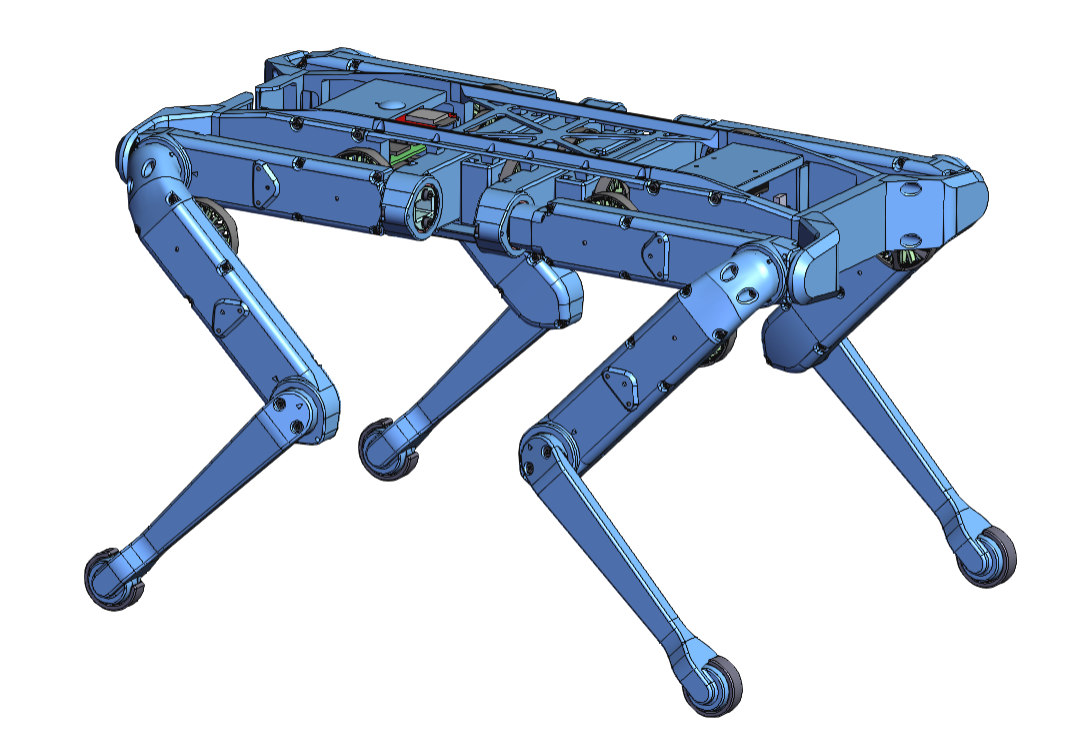
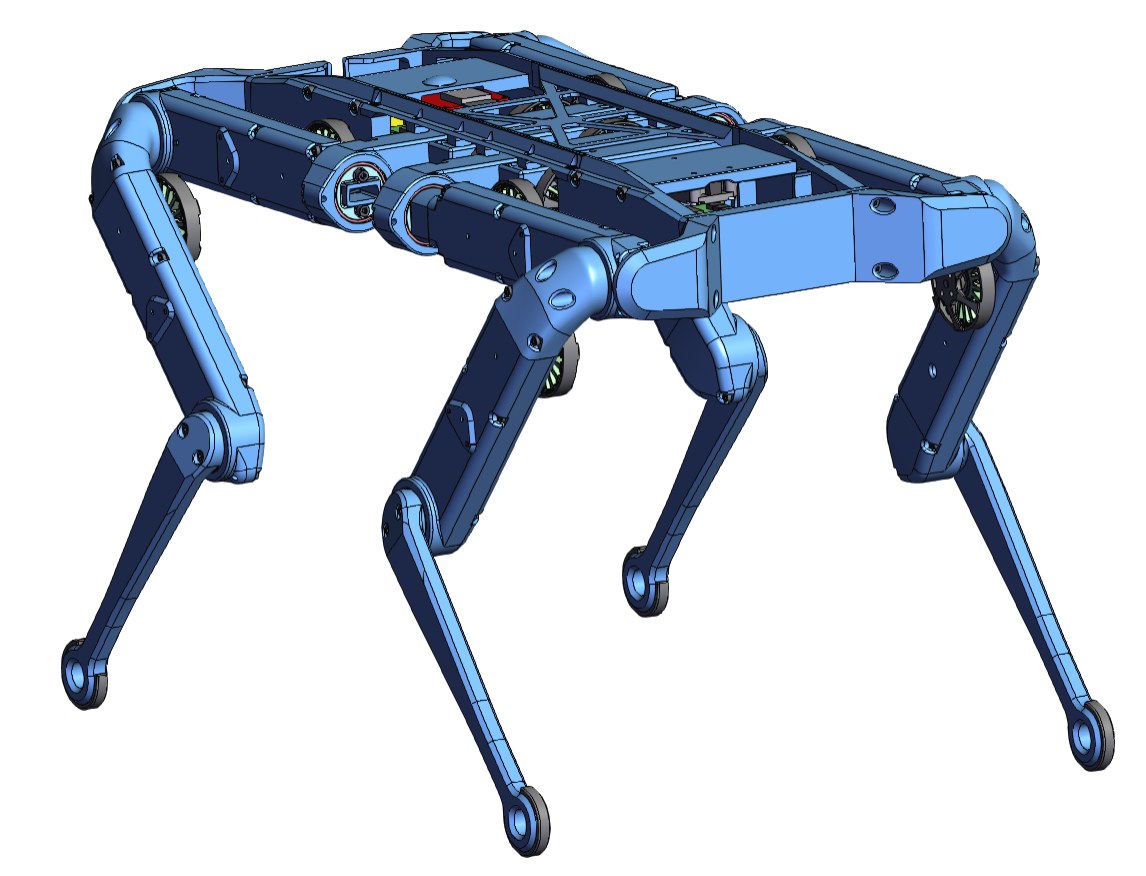
Updating html cad links

diff --git a/mechanics/leg_test_stand_v1/README.md b/mechanics/leg_test_stand_v1/README.md
@@ -135,6 +135,12 @@ All the STL files for 3d printing the Leg Test Stand can be found here: [STL Fil
 |Stopper Attachment|2|[STL file](stl_files/stopper_attachment.STL)|3d printed part|
 |Stopper Wing|1|[STL file](stl_files/stopper_wing.STL)|3d printed part|
 
+## View the Leg Test Stand cad model in your web browser
+<br>
+
+<a href="https://open-dynamic-robot-initiative.github.io/cad_files/leg_test_stand_v1"><img src="images/leg_test_stand_cad_1.png" width="400"></a><br> *Leg Test Stand v1 - Click on the picture to view the cad model in your browser*
+
+---
 ## How to work with this
 * To get an better overview of the assembly you can view this [pdf file](details/leg_test_stand_v1.PDF)
 * I recommend downloading the free eDrawings viewer for Windows, Mac, iOS and Android [here](https://www.edrawingsviewer.com/download-edrawings).
@@ -150,7 +156,7 @@ Felix Grimminger
 BSD 3-Clause License
 
 ## Copyright
-Copyright (c) 2019-2020, Max Planck Gesellschaft and New York University
+Copyright (c) 2019-2021, Max Planck Gesellschaft and New York University
 
 ## More Information
 [Open Dynamic Robot Initiative - Webpage](https://open-dynamic-robot-initiative.github.io)  

diff --git a/mechanics/quadruped_robot_8dof_v1/README.md b/mechanics/quadruped_robot_8dof_v1/README.md
@@ -103,7 +103,9 @@ The inertial values are being used in this repository: [Robot Properties Solo](h
 ---
 ## View the quadruped cad model in your web browser <br>
 
-<a href="https://open-dynamic-robot-initiative.github.io/cad_files/quadruped_8dof_v1"><img src="images/quadruped_cad_1.png" width="300"></a><br> *Quadruped Robot 8dof v1 <br> Click on the picture to view the biped cad model in your browser*
+<a href="https://open-dynamic-robot-initiative.github.io/cad_files/quadruped_8dof_v1"><img src="images/quadruped_cad_2.png" width="300"></a><br> *Quadruped Robot 8dof v1 - Click on the picture to view the biped cad model in your browser*
+
+<a href="https://open-dynamic-robot-initiative.github.io/cad_files/quadruped_8dof_v1_folded"><img src="images/quadruped_cad_3.png" width="350"></a><br>*Quadruped robot 8dof v1 folded - Click on picture to view the cad model in your browser*
 
 ---
 ## More Information
@@ -122,4 +124,4 @@ Felix Grimminger
 BSD 3-Clause License
 
 ## Copyright
-Copyright (c) 2019-2020, Max Planck Gesellschaft and New York University
+Copyright (c) 2019-2021, Max Planck Gesellschaft and New York University

diff --git a/mechanics/biped_6dof_v1/README.md b/mechanics/biped_6dof_v1/README.md
@@ -228,7 +228,7 @@ The simplified STL files for visualization and simulation can be found here: [ST
 ## View the biped cad model in your web browser
 <br>
 
-<a href="https://open-dynamic-robot-initiative.github.io/cad_files/biped"><img src="images/biped_cad_3.png" width="250"></a><br> *Biped Robot 6dof - Click on the picture to view the biped cad model in your browser*
+<a href="https://open-dynamic-robot-initiative.github.io/cad_files/biped"><img src="images/biped_cad_4.png" width="250"></a><br> *Biped Robot 6dof - Click on the picture to view the biped cad model in your browser*
 
 ---
 ## Authors
@@ -238,7 +238,7 @@ Felix Grimminger
 BSD 3-Clause License
 
 ## Copyright
-Copyright (c) 2019-2020, Max Planck Gesellschaft and New York University
+Copyright (c) 2019-2021, Max Planck Gesellschaft and New York University
 
 ## More Information
 [Open Dynamic Robot Initiative - Webpage](https://open-dynamic-robot-initiative.github.io)  

diff --git a/mechanics/quadruped_robot_8dof_v2/README.md b/mechanics/quadruped_robot_8dof_v2/README.md
@@ -197,7 +197,9 @@ More wiring information: [Details Wiring](../../electronics/details/details_wiri
 ---
 ## View the quadruped cad model in your web browser <br>
 
-<a href="https://open-dynamic-robot-initiative.github.io/cad_files/quadruped_8dof_v2"><img src="images/solo8_v2_cad_2.png" width="300"></a><br> *Quadruped Robot 8dof v2 <br> Click on the picture to view the biped cad model in your browser*
+<a href="https://open-dynamic-robot-initiative.github.io/cad_files/quadruped_8dof_v2"><img src="images/solo8_v2_cad_3.png" width="350"></a><br> *Quadruped Robot 8dof v2 <br> Click on the picture to view the cad model in your browser*
+
+<a href="https://open-dynamic-robot-initiative.github.io/cad_files/quadruped_8dof_v2_folded"><img src="images/solo8_v2_cad_4.png" width="400"></a><br> *Quadruped Robot 8dof v2 folded <br> Click on the picture to view the cad model in your browser*
 
 ---
 ## More Information

diff --git a/mechanics/dual_motor_testbed_v1/README.md b/mechanics/dual_motor_testbed_v1/README.md
@@ -154,6 +154,11 @@
 | CAN PCI Express Card | 1 | PEAK IPEH-003027 | Dual channel |
 | CAN Connector | 1 | 9 pole D-Sub connector<br>RS 765-9555 |  |
 
+---
+## View the dual motor testbed cad model in your web browser
+<br>
+
+<a href="https://open-dynamic-robot-initiative.github.io/cad_files/dual_motor_testbed"><img src="images/dual_motor_testbed_cad_1.png" width="500"></a><br> *Dual Motor Testbed - Click on the picture to view the cad model in your browser*
 
 ---
 ## How to work with this
@@ -172,7 +177,7 @@ Felix Grimminger
 BSD 3-Clause License
 
 ## Copyright
-Copyright (c) 2019-2020, Max Planck Gesellschaft and New York University
+Copyright (c) 2019-2021, Max Planck Gesellschaft and New York University
 
 ## More Information
 [Open Dynamic Robot Initiative - Webpage](https://open-dynamic-robot-initiative.github.io)  

diff --git a/mechanics/foot_contact_switch_v1/README.md b/mechanics/foot_contact_switch_v1/README.md
@@ -109,6 +109,12 @@ To view the Eagle files you need to download the free [Eagle PCB Design Software
 
 * alternative lower leg versions without contact sensor are documented here: [Lower Leg Documentation](../general/lower_legs.md#lower-legs)
 
+---
+## View the foot contact switch cad model in your web browser
+<br>
+
+<a href="https://open-dynamic-robot-initiative.github.io/cad_files/foot_contact_switch_v1"><img src="images/foot_contact_switch_cad_1.png" width="400"></a><br> *Foot Contact Switch - Click on the picture to view the cad model in your browser*
+
 ## How to work with this
 * To get an better overview of the assembly you can view this [pdf file](lower_leg.PDF)
 * I recommend downloading the free eDrawings viewer for Windows, Mac, iOS and Android [here](https://www.edrawingsviewer.com/download-edrawings).

diff --git a/mechanics/tri_finger_edu_v1/README.md b/mechanics/tri_finger_edu_v1/README.md
@@ -74,6 +74,11 @@ The simplified STL files for visualization and simulation can be found here: [ST
 
 <a href="details/manipulator_dimensions_visualization.pdf"><img src="images/manipulator_dimensions_visualization.png" width="600"></a><br>*Click on picture above to view the PDF drawing*
 
+----
+## View the TriFinger cad model in your web browser <br>
+
+<a href="https://open-dynamic-robot-initiative.github.io/cad_files/trifinger_edu_v1"><img src="images/trifinger_cad_1.png" width="350"></a><br> *TriFinger Edu v1 <br> Click on the picture to view the cad model in your browser*
+
 ---
 ## More Information
 [Open Dynamic Robot Initiative - Webpage](https://open-dynamic-robot-initiative.github.io)  
